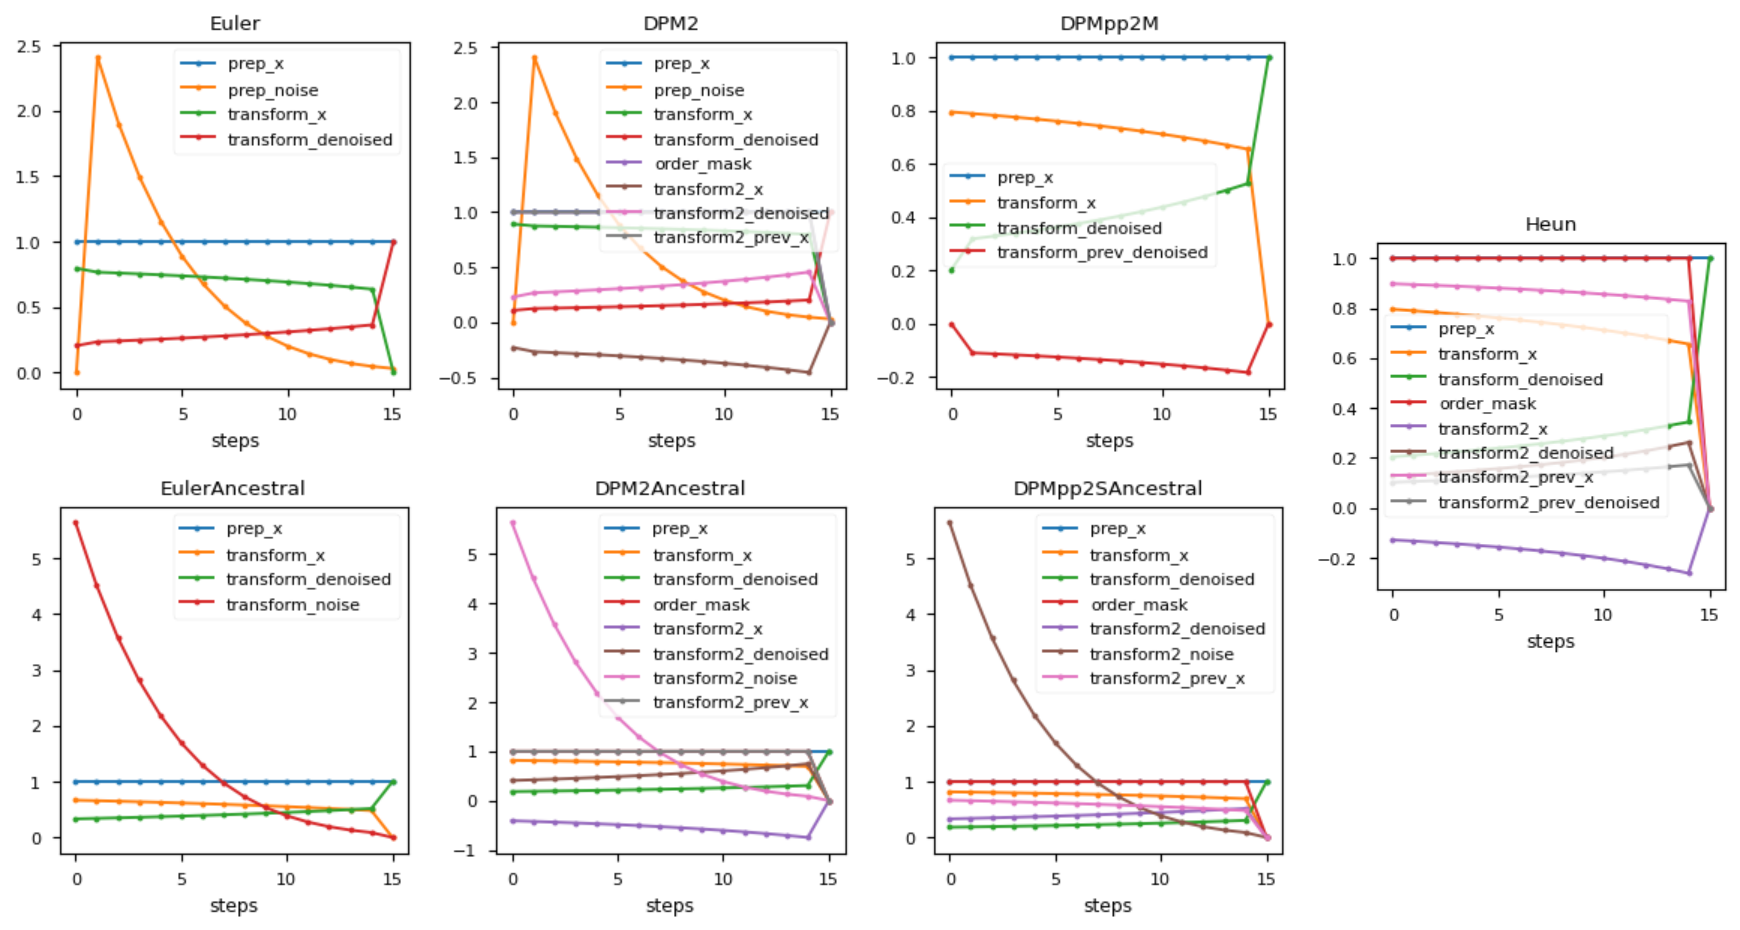
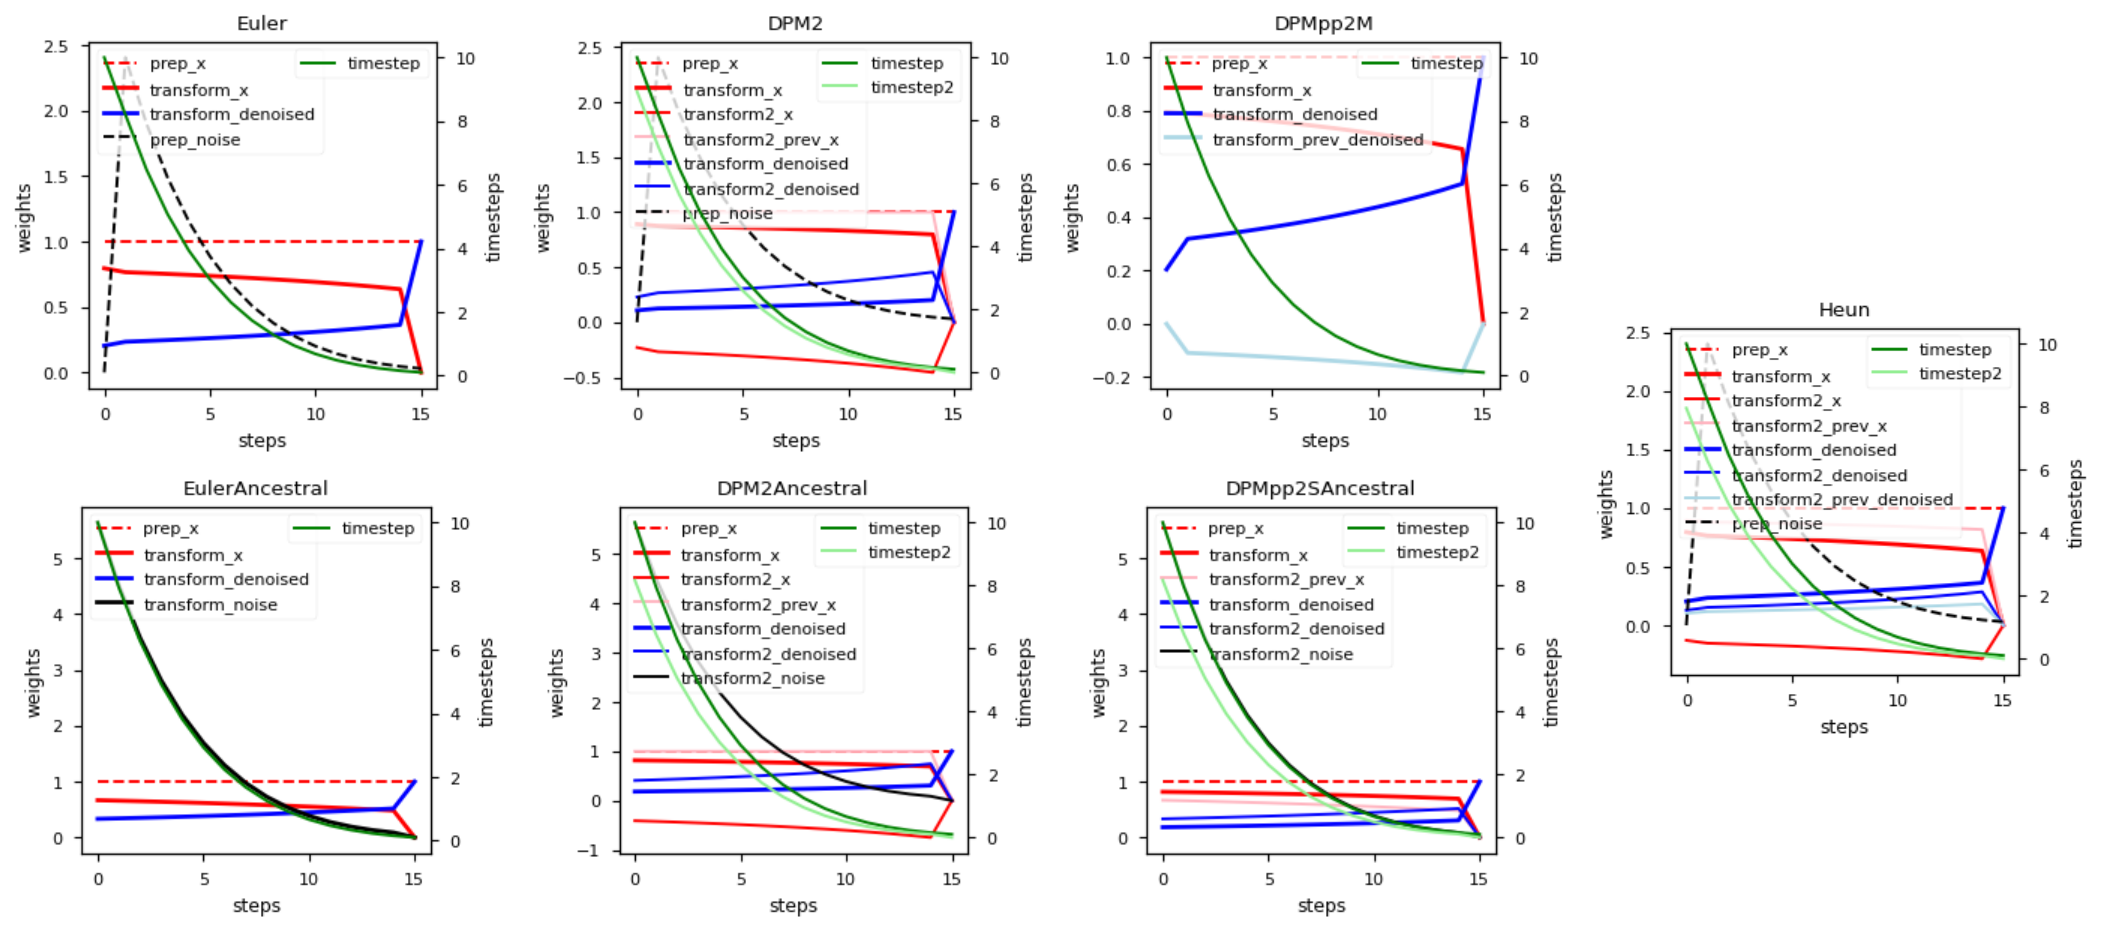
new plot with uniform colors

diff --git a/scheduler_hub/scheduler.py b/scheduler_hub/scheduler.py
@@ -14,6 +14,23 @@ from torch import Tensor
 from .protocols import Model, Callback
 
 
+COLORS = {
+    "x": "#FF0000",
+    "prev_x": "#FFB6C1",
+    "denoised": "#0000FF",
+    "prev_denoised": "#ADD8E6",
+    "noise": "#000000",
+    "timestep": "#008000",
+    "timestep2": "#90EE90",
+}
+STYLES = {
+    "": {},
+    "prep": {"linestyle": "--"},
+    "transform": {"linestyle": "-", "linewidth": 2},
+    "transform2": {"linestyle": "-"},
+}
+
+
 class BaseScheduler:
     steps: int
 
@@ -25,7 +42,7 @@ class BaseScheduler:
 
     # TODO rename
     @staticmethod
-    def sigma_config(sigmas: Tensor) -> tuple[Tensor, int]:
+    def clone_sigmas(sigmas: Tensor) -> tuple[Tensor, int]:
         steps = len(sigmas) - 1
         sigmas = sigmas.detach().cpu().float().clone()
 
@@ -71,19 +88,39 @@ class BaseScheduler:
             if isinstance(value, Tensor):
                 yield name, value
 
-    def plot(self, show: bool = True) -> None:
-        for name, value in self.named_tensors():
-            if value.eq(0).all():
-                continue
+    def plot(
+        self,
+        show: bool = True,
+        *,
+        figsize: Optional[tuple[int, int]] = None,
+    ) -> None:
+        tensors_dict = {name: value for name, value in self.named_tensors() if not value.eq(0).all()}
 
-            if name.startswith("timestep"):
-                continue
+        fig, ax1 = plt.subplots(figsize=figsize)
+        ax2 = ax1.twinx()
 
-            plt.plot(value.cpu(), label=name, marker=".")
+        ax1.set_title(self.name)
+        ax1.set_xlabel("steps")
+        ax1.set_ylabel("weights")
+        ax2.set_ylabel("timesteps")
 
-        plt.title(f"{self.name}")
-        plt.legend()
-        plt.xlabel("steps")
+        for suffix, color in COLORS.items():
+            for prefix, style in STYLES.items():
+                second_axis = prefix == ""
+                name = f"{prefix}_{suffix}" if not second_axis else suffix
+                if name not in tensors_dict:
+                    continue
+
+                value = tensors_dict[name].detach().cpu().float()
+
+                if not second_axis:
+                    ax1.plot(value, label=name, color=color, **style)
+                else:
+                    ax2.plot(value, label=name, color=color, **style)
+
+        ax1.legend(loc="upper left")
+        ax2.legend(loc="upper right")
+
         if show:
             plt.show()
 

diff --git a/scheduler_hub/schedulers/euler.py b/scheduler_hub/schedulers/euler.py
@@ -15,7 +15,7 @@ class Euler(Scheduler1):
         s_tmax: float = float("inf"),
         s_noise: float = 1,
     ) -> None:
-        sigmas, steps = self.sigma_config(sigmas)
+        sigmas, steps = self.clone_sigmas(sigmas)
         super().__init__(steps)
 
         cs, ns = sigmas[:-1], sigmas[1:]

diff --git a/scheduler_hub/schedulers/dpm2.py b/scheduler_hub/schedulers/dpm2.py
@@ -16,7 +16,7 @@ class DPM2(Scheduler2):
         s_tmax: float = float("inf"),
         s_noise: float = 1,
     ) -> None:
-        sigmas, steps = self.sigma_config(sigmas)
+        sigmas, steps = self.clone_sigmas(sigmas)
         super().__init__(steps)
 
         cs, ns = sigmas[:-1], sigmas[1:]

diff --git a/scheduler_hub/schedulers/heun.py b/scheduler_hub/schedulers/heun.py
@@ -15,7 +15,7 @@ class Heun(Scheduler2):
         s_tmax: float = float("inf"),
         s_noise: float = 1,
     ) -> None:
-        sigmas, steps = self.sigma_config(sigmas)
+        sigmas, steps = self.clone_sigmas(sigmas)
         super().__init__(steps)
 
         cs, ns = sigmas[:-1], sigmas[1:]

diff --git a/scheduler_hub/schedulers/dpmpp_2s_ancestral.py b/scheduler_hub/schedulers/dpmpp_2s_ancestral.py
@@ -14,7 +14,7 @@ class DPMpp2SAncestral(Scheduler2):
         eta: float = 1,
         s_noise: float = 1,
     ) -> None:
-        sigmas, steps = self.sigma_config(sigmas)
+        sigmas, steps = self.clone_sigmas(sigmas)
         super().__init__(steps)
 
         cs, ns = sigmas[:-1], sigmas[1:]

diff --git a/scheduler_hub/schedulers/euler_ancestral.py b/scheduler_hub/schedulers/euler_ancestral.py
@@ -13,7 +13,7 @@ class EulerAncestral(Scheduler1):
         eta: float = 1,
         s_noise: float = 1,
     ) -> None:
-        sigmas, steps = self.sigma_config(sigmas)
+        sigmas, steps = self.clone_sigmas(sigmas)
         super().__init__(steps)
 
         cs, ns = sigmas[:-1], sigmas[1:]

diff --git a/scheduler_hub/schedulers/dpm2_ancestral.py b/scheduler_hub/schedulers/dpm2_ancestral.py
@@ -14,7 +14,7 @@ class DPM2Ancestral(Scheduler2):
         eta: float = 1,
         s_noise: float = 1,
     ) -> None:
-        sigmas, steps = self.sigma_config(sigmas)
+        sigmas, steps = self.clone_sigmas(sigmas)
         super().__init__(steps)
 
         cs, ns = sigmas[:-1], sigmas[1:]

diff --git a/scheduler_hub/schedulers/dpmpp_2m.py b/scheduler_hub/schedulers/dpmpp_2m.py
@@ -8,7 +8,7 @@ from ..scheduler import Scheduler1
 
 class DPMpp2M(Scheduler1):
     def __init__(self, sigmas: Tensor) -> None:
-        sigmas, steps = self.sigma_config(sigmas)
+        sigmas, steps = self.clone_sigmas(sigmas)
         super().__init__(steps)
 
         i = torch.arange(steps)
